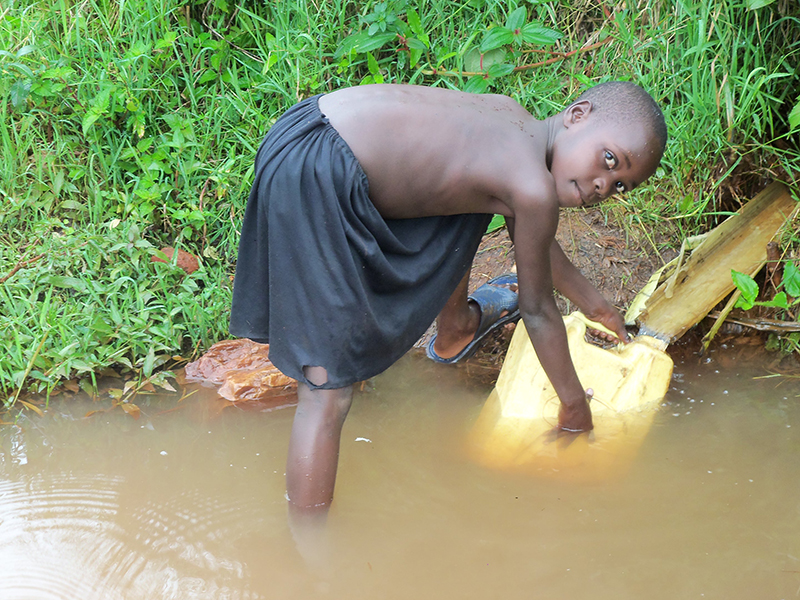
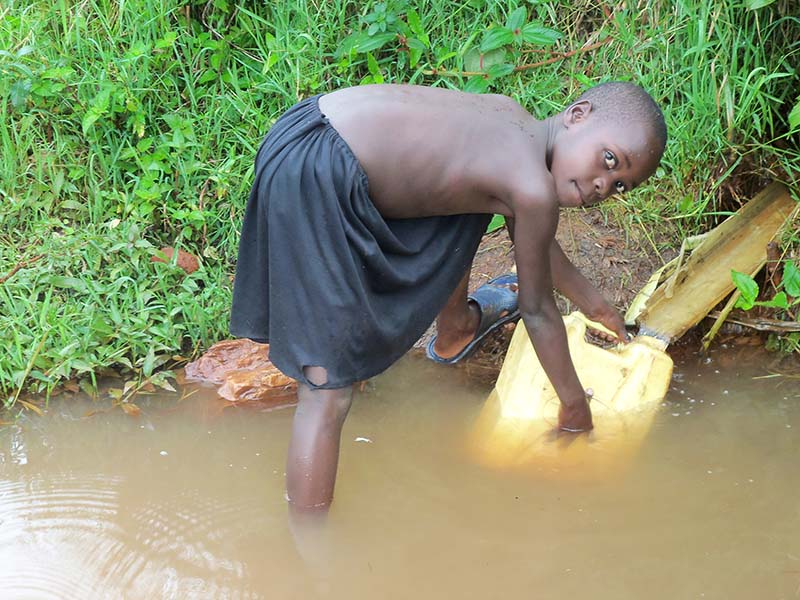
Updated images to medium quality JPEGs for faster page load. Removed contact and error page components.

diff --git a/src/client/components/team.js b/src/client/components/team.js
@@ -17,21 +17,21 @@ const About = ((props) => {
 				<div className="row">
 					<div className="col-md-4">
 						<div className="profile">
-							<img src="/img/britt.png" />
+							<img src="/img/britt.jpg" />
 							<p className="label">Brittany Rittenbacher - President</p><br/>
 							<p className="description">{brittany}</p>
 						</div>
 					</div>
 					<div className="col-md-4">
 						<div className="profile">
-							<img src="/img/michael.png" />
+							<img src="/img/michael.jpg" />
 							<p className="label">Michael Hurtado - Secretary</p><br/>
 							<p className="description">{michael}</p>
 						</div>
 					</div>
 					<div className="col-md-4">
 						<div className="profile">
-							<img src="/img/trish.png" />
+							<img src="/img/trish.jpg" />
 							<p className="label">Patricia Fragen - Treasurer</p><br/>
 							<p className="description">{patricia}</p>
 						</div>

diff --git a/src/client/app.js b/src/client/app.js
@@ -8,8 +8,6 @@ import { Router, Route, useRouterHistory } from 'react-router';
 import Home from './components/home';
 import Team from './components/team';
 import Projects from './components/projects';
-import Contact from './components/contact';
-import Error from './components/error';
 
 const appHistory = useRouterHistory(createHashHistory)({ queryKey: false })
 
@@ -18,7 +16,6 @@ ReactDOM.render((
 		<Route path="/" component={Home} />
 		<Route path="team" component={Team} />
 		<Route path="projects" component={Projects} />
-		<Route path="contact" component={Contact} />
-		<Route path="*" component={Error} />
+		<Route path="*" component={Home} />
 	</Router>
 ), document.getElementById('app'));

diff --git a/src/client/components/projects.js b/src/client/components/projects.js
@@ -16,7 +16,7 @@ const Projects = ((props) => {
 						<p><i className="fa fa-calendar" aria-hidden="true"></i> June 19, 2016</p>
 					</div>
 					<div className="col-xs-12 col-md-8 col-md-pull-4 left-column">
-						<img src="/img/kisima.png" />
+						<img src="/img/kisima.jpg" />
 						<br/><br/>
 						<p>For our first project, we have decided to partner with the Ugandan non-profit agency, PresAID Uganda, and the local community of Kisima Island, on Lake Victoria, to bring safe drinking water to their residents. Here are some critical facts to know:</p>
 						<ul>
